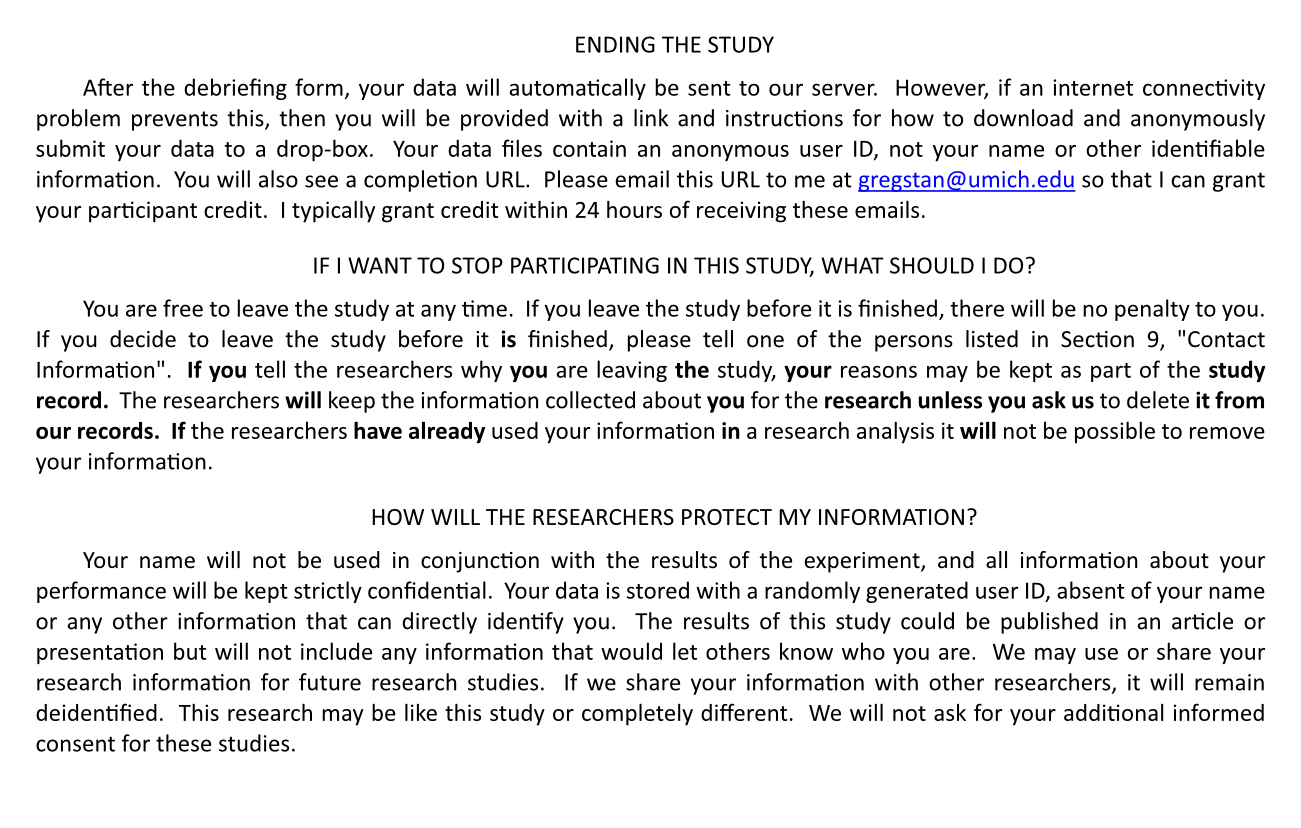
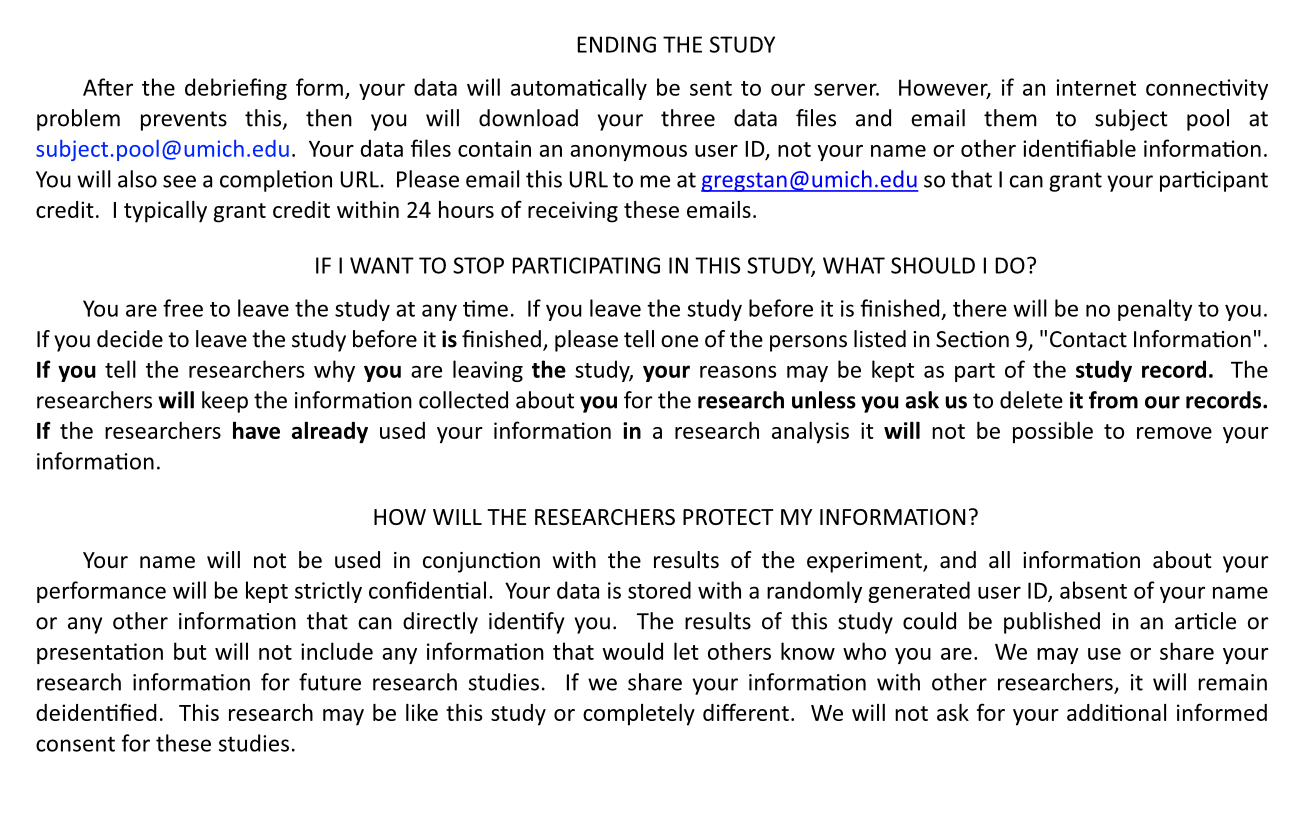
told partipants to email data to subject pool

diff --git a/src/components/MainPage.vue b/src/components/MainPage.vue
@@ -6,7 +6,7 @@
       (1) Complete the instructions, (2) prediction task, (3) matching task, (4) similarity task and (4) the survey.  Ignore the 
       <br />Written response section.  Your data will automatically be sent to our server once you see the completion URL.  If you   
       <br />never see the URL, then click 'Send Data', download your data files, and save them.  Do not email them to me directly.   
-      <br />I will work with Subject Pool to find an anonymous way to get them.  If you see the completion URL, then send it to me at  
+      <br />Email your three data files to subject pool at subject.pool@umich.edu.  If you see the URL, then email it to me at  
       <br />gregstan@umich.edu with your participant ID, shown below.  Feel free to email me questions.  NEVER refresh the page!
     </p>
     <div class="bv-example-row bv-example-row-flex-cols">
@@ -192,7 +192,7 @@
       id="modal-center-end"
       size="xl"
       centered
-      title="Loading your end of experiment URL.  If the url fails to load within 20 seconds, screenshot this page and email it as an attachment to gregstan@umich.edu to demonstrate that you completed the experiment.  If you would like to view your data files, click the grey area of this screen, and click the Download Data buttons beside each task."
+      title="Loading your end of experiment URL.  If the url fails to load within 20 seconds, screenshot this page and email it as an attachment to gregstan@umich.edu to demonstrate that you completed the experiment. Please download your three data files and email to subject pool at subject.pool@umich.edu. If you would like to view your data files, click the grey area of this screen, and click the Download Data buttons beside each task."
       :hide-footer="true"
       :header-bg-variant="headerBgVariant"
       :header-text-variant="headerTextVariant"
